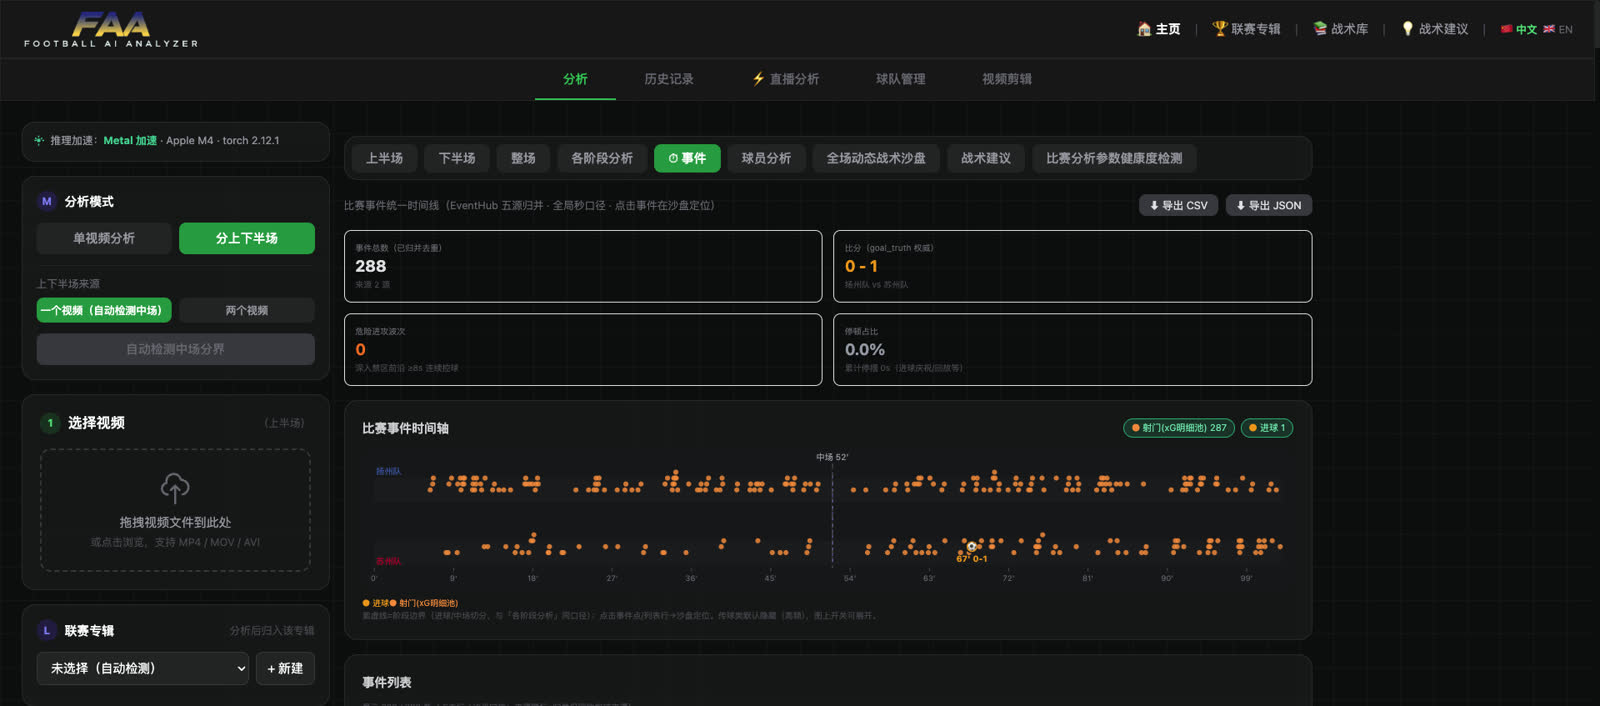
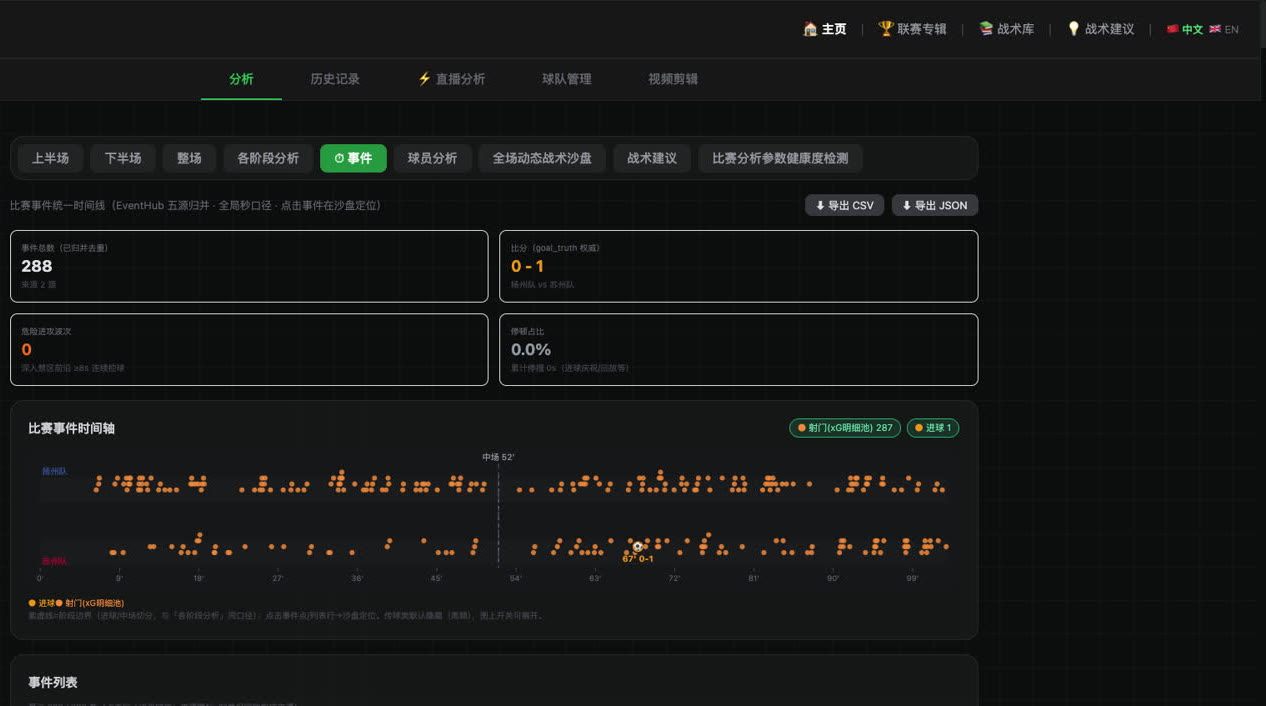
Add direct contact details; crop telemetry strip out of event-timeline figure

diff --git a/docs/evaluation-pack.md b/docs/evaluation-pack.md
@@ -48,7 +48,7 @@
 - [ ] 全页水印：`EVALUATION SAMPLE · NOT FOR REDISTRIBUTION`（斜向、半透明、覆满）；
 - [ ] 页脚标注版本号与生成日期；
 - [ ] 不含报价、不含客户名单、不含任何第三方名称；
-- [ ] 联系方式只留 `jov611@gmail.com` 与站点链接。
+- [ ] 联系方式只留魏巍 / 电话微信 186 1678 4797 / `907882691@qq.com` 与站点链接。
 
 ## 四、体积与分发
 
@@ -78,4 +78,4 @@
 
 ---
 
-评估包申请与 NDA 洽谈：**jov611@gmail.com**
+评估包申请与 NDA 洽谈：**魏巍 · 电话/微信 186 1678 4797 · 907882691@qq.com**

diff --git a/README.md b/README.md
@@ -142,7 +142,10 @@ on how accuracy is measured, and eventually a redacted evaluation package in Rel
 
 ## Contact
 
-**jov611@gmail.com** · https://sportai-hq.pages.dev
+**Allen Wei (魏巍)**
+Phone / WeChat: **+86 186 1678 4797**
+Email: **907882691@qq.com** (primary) · jov611@gmail.com
+Site: https://sportai-hq.pages.dev
 
 Please write from a company address and say which track you are asking about (usage or
 ownership), so the first reply is the right one.

diff --git a/README.zh-CN.md b/README.zh-CN.md
@@ -128,7 +128,10 @@
 
 ## 联系方式
 
-**jov611@gmail.com** · https://sportai-hq.pages.dev
+**魏巍（Allen Wei）**
+电话 / 微信：**186 1678 4797**
+邮箱：**907882691@qq.com**（主用）· jov611@gmail.com
+站点：https://sportai-hq.pages.dev
 
 请用公司邮箱联系，并说明你在问哪条轨道（使用权或所有权），这样第一封回复就是对的。
 

diff --git a/docs/verification.md b/docs/verification.md
@@ -51,4 +51,4 @@
 
 ---
 
-评估需求请联系 **jov611@gmail.com**，说明是 POC 还是 NDA 尽调。
+评估需求请联系 **魏巍 · 电话/微信 186 1678 4797 · 907882691@qq.com**，说明是 POC 还是 NDA 尽调。
